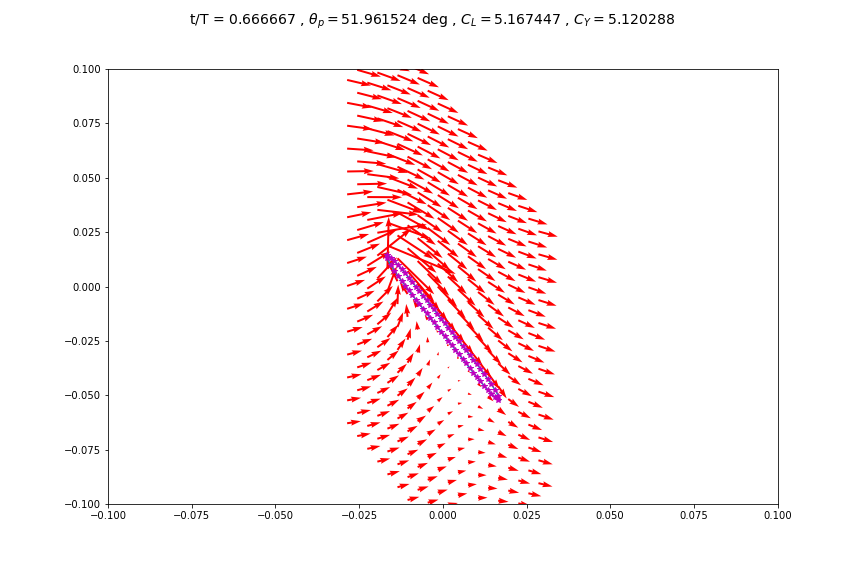
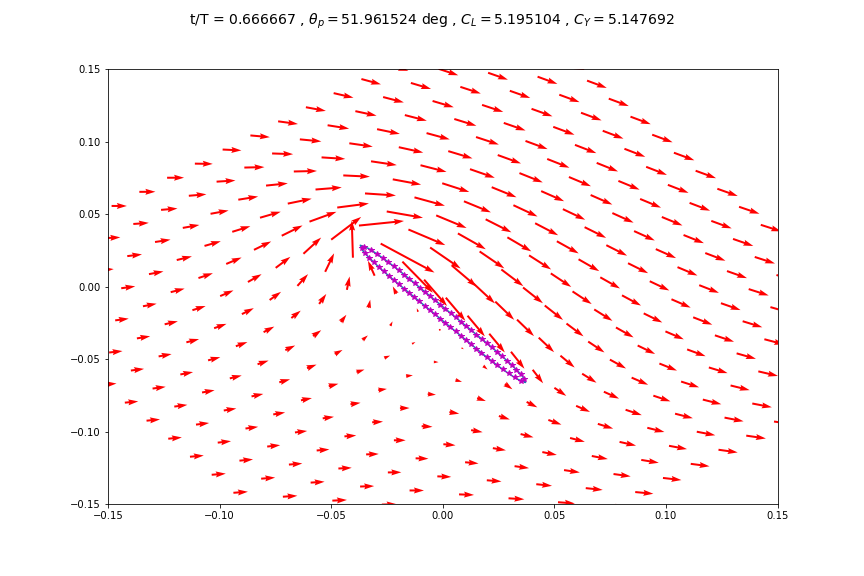
Unsure what I changed here

diff --git a/Unsteady Attached Flow plate_moving foil.py b/Unsteady Attached Flow plate_moving foil.py
@@ -57,8 +57,8 @@ xcOld=copy.copy(xc)
 ycOld=copy.copy(yc)
 
 # time frames, panel positions, collocation positions, induced freestream velocities
-numFrames=10
-tEnd=.5
+numFrames=3
+tEnd=.1
 tInterval=np.linspace(0,tEnd,numFrames)
 f=2
 omega=2*np.pi*f
@@ -123,34 +123,6 @@ for i in range(numPanels):
 upsField=np.zeros((numPoints*numPoints,numPanels))
 wpsField=np.zeros((numPoints*numPoints,numPanels))
 
-#   influence coefficients for points outside the foil
-for i in range(numPoints): # each row of grid points
-    for j in range(numPoints): # each grid point in each row
-        for k in range(numPanels): # for each panel
-            r1=((X[0,j]-xp[k])**2+(Y[i,0]-yp[k])**2)**(1/2)
-            r2=((X[0,j]-xp[k+1])**2+(Y[i,0]-yp[k+1])**2)**(1/2)
-            nu2=np.arctan2(-(X[0,j]-xp[k])*np.sin(theta[k])+(Y[i,0]-yp[k])*np.cos(theta[k])+(xp[k+1]-xp[k])*np.sin(theta[k])-(yp[k+1]-yp[k])*np.cos(theta[k]),\
-                         (X[0,j]-xp[k])*np.cos(theta[k])+(Y[i,0]-yp[k])*np.sin(theta[k])-(xp[k+1]-xp[k])*np.cos(theta[k])-(yp[k+1]-yp[k])*np.sin(theta[k]))
-            nu1=np.arctan2(-(X[0,j]-xp[k])*np.sin(theta[k])+(Y[i,0]-yp[k])*np.cos(theta[k]),(X[0,j]-xp[k])*np.cos(theta[k])+(Y[i,0]-yp[k])*np.sin(theta[k]))
-            upsField[i*numPoints+j,k]=1/(4*np.pi)*np.log(r1**2/r2**2)
-            wpsField[i*numPoints+j,k]=1/(2*np.pi)*(nu2-nu1)
-upvField=copy.copy(wpsField)
-wpvField=-upsField
-
-#   transform influence coefficients to foil frame
-ugsField=upsField*np.cos(np.transpose(theta))-wpsField*np.sin(np.transpose(theta))
-wgsField=upsField*np.sin(np.transpose(theta))+wpsField*np.cos(np.transpose(theta))
-ugvField=upvField*np.cos(np.transpose(theta))-wpvField*np.sin(np.transpose(theta))
-wgvField=upvField*np.sin(np.transpose(theta))+wpvField*np.cos(np.transpose(theta))
-
-#   x and y influence coefficients for points outside the foil
-AFieldx=np.zeros((numPoints*numPoints,numPanels+1))
-AFieldy=np.zeros((numPoints*numPoints,numPanels+1))
-AFieldx[:,:numPanels]=ugsField
-AFieldx[:,-1]=np.sum(ugvField,axis=1)
-AFieldy[:,:numPanels]=wgsField
-AFieldy[:,-1]=np.sum(wgvField,axis=1)
-
 xVelStream=np.zeros((numPoints,numPoints))
 yVelStream=np.zeros((numPoints,numPoints)) 
 
@@ -161,7 +133,6 @@ CYKuttaSto=np.zeros((numFrames,1))
 CYBernSto=np.zeros((numFrames,1))
 xSto=np.zeros((numPanels+1,numFrames))
 momSto=np.zeros((numFrames,1))
-chordSto=np.zeros((numFrames,1))
 
 # panel method for each snap shot in time interval
 for t in range(numFrames):
@@ -200,40 +171,62 @@ for t in range(numFrames):
     momentBern=np.sum(forceDist*np.cos(theta)*-xc)#!!!!!!!!!!!!!!!!
     
     # coefficient of pressure over chord
- 
     
-    # adjust freestream velocity in domain to account for heaving and pitching (foil coordinate system)
-    xModU=Uinf*np.cos(theta_t[t])+h_t_dot[t]*np.sin(theta_t[t])#!!!!!!!!!!!!!!!!!
-    yModU=Uinf*np.sin(theta_t[t])+(-h_t_dot[t]*np.cos(theta_t[t])+theta_t_dot[t]*X[0,:])
+    # update panel coordinates 
+    xp=xpOld+xpOld*np.cos(theta_t[t])
+    yp=ypOld+h_t[t]-xpOld*np.sin(theta_t[t])
     
-    # calculate velocity stream vectors in foil coordinate system
+    #   influence coefficients for points outside the foil in panel coor sys
+    for i in range(numPoints): # each row of grid points
+        for j in range(numPoints): # each grid point in each row
+            for k in range(numPanels): # for each panel
+                r1=((X[0,j]-xp[k])**2+(Y[i,0]-yp[k])**2)**(1/2)
+                r2=((X[0,j]-xp[k+1])**2+(Y[i,0]-yp[k+1])**2)**(1/2)
+                nu2=np.arctan2(-(X[0,j]-xp[k])*np.sin(theta[k])+(Y[i,0]-yp[k])*np.cos(theta[k])+(xp[k+1]-xp[k])*np.sin(theta[k])-(yp[k+1]-yp[k])*np.cos(theta[k]),\
+                             (X[0,j]-xp[k])*np.cos(theta[k])+(Y[i,0]-yp[k])*np.sin(theta[k])-(xp[k+1]-xp[k])*np.cos(theta[k])-(yp[k+1]-yp[k])*np.sin(theta[k]))
+                nu1=np.arctan2(-(X[0,j]-xp[k])*np.sin(theta[k])+(Y[i,0]-yp[k])*np.cos(theta[k]),(X[0,j]-xp[k])*np.cos(theta[k])+(Y[i,0]-yp[k])*np.sin(theta[k]))
+                upsField[i*numPoints+j,k]=1/(4*np.pi)*np.log(r1**2/r2**2)
+                wpsField[i*numPoints+j,k]=1/(2*np.pi)*(nu2-nu1)
+    upvField=copy.copy(wpsField)
+    wpvField=-upsField
+    
+    #   transform influence coefficients to foil frame
+    ugsField=upsField*np.cos(np.transpose(theta))-wpsField*np.sin(np.transpose(theta))
+    wgsField=upsField*np.sin(np.transpose(theta))+wpsField*np.cos(np.transpose(theta))
+    ugvField=upvField*np.cos(np.transpose(theta))-wpvField*np.sin(np.transpose(theta))
+    wgvField=upvField*np.sin(np.transpose(theta))+wpvField*np.cos(np.transpose(theta))
+    
+    #   transform to global X Y
+    upsField=copy.copy(ugsField)
+    wpsField=copy.copy(wgsField)
+    upvField=copy.copy(ugvField)
+    wpvField=copy.copy(wgvField)
+    
+    ugsField=upsField*np.cos(theta_t[t])+wpsField*np.sin(theta_t[t])
+    wgsField=-upsField*np.sin(theta_t[t])+wpsField*np.cos(theta_t[t])
+    ugvField=upvField*np.cos(theta_t[t])+wpvField*np.sin(theta_t[t])
+    wgvField=-upvField*np.sin(theta_t[t])+wpvField*np.cos(theta_t[t])
+    
+    #   x and y influence coefficients for points outside the foil global X Y
+    AFieldx=np.zeros((numPoints*numPoints,numPanels+1))
+    AFieldy=np.zeros((numPoints*numPoints,numPanels+1))
+    AFieldx[:,:numPanels]=ugsField
+    AFieldx[:,-1]=np.sum(ugvField,axis=1)
+    AFieldy[:,:numPanels]=wgsField
+    AFieldy[:,-1]=np.sum(wgvField,axis=1)
+    
+    # adjust freestream velocity in domain to account for heaving and pitching (global X Y)
+    xModU=Uinf-theta_t_dot[t]*-X*np.cos(np.arctan2(Y-h_t[t],-X)-theta_t[t])*np.sin(theta_t[t])
+    yModU=-theta_t_dot[t]*-X*np.cos(np.arctan2(Y-h_t[t],-X)-theta_t[t])*np.cos(theta_t[t])-h_t_dot[t]
+    
+    # calculate velocity stream vectors in global X Y
     for i in range(numPoints): # each row of points
         for j in range(numPoints): # each point in row
-            xVelStream[i,j]=np.dot(AFieldx[i*numPoints+j,:],x)+xModU#!!!!!!!!!!!!
-            yVelStream[i,j]=np.dot(AFieldy[i*numPoints+j,:],x)+yModU[j]
-    
-    # rotate velocity vectors to Global X Y
-    XVelStream=xVelStream*np.cos(theta_t[t])+yVelStream*np.sin(theta_t[t])
-    YVelStream=-xVelStream*np.sin(theta_t[t])+yVelStream*np.cos(theta_t[t])
-    
-    # rotate and shift position for each velocity vector
-#    newX=X+theta_t[t]*-X*np.sin(theta_t[t])
-#    newY=Y+h_t[t]+theta_t[t]*-X*np.cos(theta_t[t])
-    newX=X*np.cos(theta_t[t])+Y*np.sin(theta_t[t])
-    newY=-X*np.sin(theta_t[t])+Y*np.cos(theta_t[t])+h_t[t]
-    
-    # update panel coordinates and collocation points
-#    xp=xpOld+theta_t[t]*-xpOld*np.sin(theta_t[t])
-#    xc=xcOld+theta_t[t]*-xcOld*np.sin(theta_t[t])
-#    yp=ypOld+h_t[t]+theta_t[t]*-xpOld*np.cos(theta_t[t])
-#    yc=ycOld+h_t[t]+theta_t[t]*-xcOld*np.cos(theta_t[t])    
-    xp=xpOld*np.cos(theta_t[t])+ypOld*np.sin(theta_t[t])
-    yp=-xpOld*np.sin(theta_t[t])+ypOld*np.cos(theta_t[t])+h_t[t]
-    xc=xcOld*np.cos(theta_t[t])+ycOld*np.sin(theta_t[t])
-    yc=-xcOld*np.sin(theta_t[t])+ycOld*np.cos(theta_t[t])+h_t[t]
+            xVelStream[i,j]=np.dot(AFieldx[i*numPoints+j,:],x)+xModU[i,j]
+            yVelStream[i,j]=np.dot(AFieldy[i*numPoints+j,:],x)+yModU[i,j]
     
     # plot velocity vectors
-    title='t/T = ' + '{:3f}'.format(tInterval[t]/tEnd)+ r' , $\theta_p = $' + '{:3f}'.format(theta_t[t]/np.pi*180) +' deg , ' + r'$C_L = $' + '{:3f}'.format(Cl_kutta[0]) +\
+    title='t/T = ' + '{:3f}'.format(tEnd/.5)+ r' , $\theta_p = $' + '{:3f}'.format(theta_t[t]/np.pi*180) +' deg , ' + r'$C_L = $' + '{:3f}'.format(Cl_kutta[0]) +\
                       r' , $C_Y = $' + '{:3f}'.format(CY_kutta[0])
     fig1=plt.figure(figsize=(12,8))
     fig1.suptitle(title,fontsize=14)
@@ -241,8 +234,7 @@ for t in range(numFrames):
     plt.ylim(yLower,yUpper)
     plt.xlim(xLeft,xRight)
     plt.plot(xp,yp)
-    plt.quiver(newX,newY,XVelStream,YVelStream,color='r')
-    plt.plot(xc,yc,'*',color='m')
+    plt.quiver(X,Y,xVelStream,yVelStream,color='r')
     plt.savefig(pathName + '//frame' + str(t))
     plt.close()
     
@@ -253,7 +245,6 @@ for t in range(numFrames):
     CYBernSto[t]=CY_bern
     xSto[:,t]=x[:,0]
     momSto[t]=momentBern
-    chordSto[t]=((xp[numPanels//2]-xp[0])**2+(yp[numPanels//2]-yp[0])**2)**(1/2)
 
 # plot force in heaving direction
 fig2=plt.figure(figsize=(12,8))
